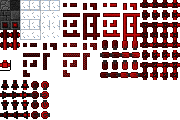
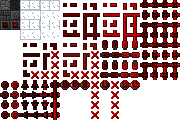
Add files via upload

Changed region(s): [[0.0, 0.425, 0.7778, 1.0], [0.0, 0.25, 0.1111, 0.425], [0.0, 0.5, 0.0833, 0.6]]

diff --git a/world.py b/world.py
@@ -66,8 +66,8 @@ class World:
         self.block_indexes = {"wire" : 0, "activator" : 1, "block" : 2, "NOT" : 3, "wire box" : 4, "AND" : 5, "XOR" : 6, "diode" : 7, "output" : 8, "glass" : 9, "armored wire" : 10}
         self.block_indexes2 = ["wire", "activator", "block", "NOT", "wire box", "AND", "XOR", "diode", "output", "glass", "armored wire"]
         self.inventory_index = 0
-        self.inventory = {"wire" : 9999, "activator" : 9999, "block" : 9999, "NOT" : 9999, "wire box" : 9999, "AND" : 9999, "XOR" : 9999, "diode" : 9999, "armored wire" : 9999, "output" : 9999, "glass" : 9999, "air" : 0}
-        self.inventory_names = ["wire", "activator", "block", "NOT", "wire box", "AND", "XOR", "diode", "armored wire", "output", "glass", "air"]
+        self.inventory = {"wire" : 9999, "activator" : 9999, "block" : 9999, "NOT" : 9999, "wire box" : 9999, "AND" : 9999, "XOR" : 9999, "diode" : 9999, "armored wire" : 9999, "memory" : 9999, "output" : 9999, "glass" : 9999, "air" : 0}
+        self.inventory_names = ["wire", "activator", "block", "NOT", "wire box", "AND", "XOR", "diode", "armored wire", "memory", "output", "glass", "air"]
         #self.load_level("level")
 
     def update(self, events):
@@ -187,12 +187,12 @@ class World:
                         self.field[x][y].data["activated2"] = 0
             for x in range(self.w):#распространение электричества
                 for y in range(self.h):
-                    if self.field[x][y].type == "activator" or self.field[x][y].type == "NOT" or self.field[x][y].type == "AND" or self.field[x][y].type == "XOR":
+                    if self.field[x][y].type == "activator" or self.field[x][y].type == "NOT" or self.field[x][y].type == "AND" or self.field[x][y].type == "XOR" or self.field[x][y].type == "memory":
                         if self.field[x][y].data["activated"] == 1:
                             self.field[x][y].update()
             for x in range(self.w):#активация логических вентилей
                 for y in range(self.h):
-                    if self.field[x][y].type == "NOT" or self.field[x][y].type == "AND" or self.field[x][y].type == "XOR":
+                    if self.field[x][y].type == "NOT" or self.field[x][y].type == "AND" or self.field[x][y].type == "XOR" or self.field[x][y].type == "memory":
                         self.field[x][y].update(self.field[x][y].data, enr=0)
             self.change_image()
         self.timer = 0
@@ -264,13 +264,14 @@ class World:
                         txt += str(int(self.field[x][y].data["activated"])) + ","
                     if self.field[x][y].type == "NOT" or self.field[x][y].type == "AND" or self.field[x][y].type == "XOR" or self.field[x][y].type == "diode" or self.field[x][y].type == "output":
                         txt += str(self.field[x][y].data["rotate"]) + ","
-                    if self.field[x][y].type == "wire box" or self.field[x][y].type == "AND" or self.field[x][y].type == "XOR" or self.field[x][y].type == "diode":
+                    if self.field[x][y].type == "wire box" or self.field[x][y].type == "AND" or self.field[x][y].type == "XOR" or self.field[x][y].type == "diode" or self.field[x][y].type == "memory":
                         txt += str(int(self.field[x][y].data["activated1"])) + ","
                         txt += str(int(self.field[x][y].data["activated2"])) + ","
                     if self.field[x][y].type == "armored wire":
                         for i in range(4):
                             txt += str(int(self.field[x][y].data["connections"][i]))
                         txt += ","
+                    if 
                     txt += ":"
         txt += ";"
         file.write(txt)

diff --git a/memory.py b/memory.py
@@ -1,0 +1,53 @@
+from block import Block
+
+class Memory(Block):
+    def __init__(self, world, pos, glassed=0, data=None):
+        preset_data = {"activated1" : 0, "activated2" : 0, "activated" : 0, "rotate" : 0, "inverted" : 0}
+        Block.__init__(self, world, pos, "memory", glassed, data, preset_data)
+
+    def update(self, data={}, enr=1):
+        if not enr:
+            left_pos = self.get_rotate_position((self.data["rotate"] - 1) % 4)
+            right_pos = self.get_rotate_position((self.data["rotate"] + 1) % 4)
+            in1 = 0
+            in2 = 0
+            #левый вход
+            if self.border(left_pos):
+                r = (self.data["rotate"] - 1) % 4
+                left_block = self.world.field[left_pos[0]][left_pos[1]]
+                if left_block.is_block_connect_output(r):
+                    in1 = left_block.data[left_block.get_activated_key(r)]
+            #правый вход
+            if self.border(right_pos):
+                r = (self.data["rotate"] + 1) % 4
+                right_block = self.world.field[right_pos[0]][right_pos[1]]
+                if right_block.is_block_connect_output(r):
+                    in2 = right_block.data[right_block.get_activated_key(r)]
+            #активация
+            if (in1):
+                self.data["activated"] = in2
+            self.data["activated1"] = in1
+            self.data["activated2"] = in2
+        #распространение сигнала
+        if enr:
+            front_pos = self.get_rotate_position(self.data["rotate"])
+            if self.border(front_pos):
+                front_block = self.world.field[front_pos[0]][front_pos[1]]
+                if front_block.active == 0 and self.data["activated"] and front_block.is_block_connect_input(self.data["rotate"]):#если можно передать сигнал вперед
+                    front_block.update({"rotate": self.data["rotate"]})
+
+    def is_block_connect_with_wire(self, rotate):
+        return(self.data["rotate"] != rotate)
+
+    def is_block_connect_output(self, rotate):
+        return((self.data["rotate"] + 2) % 4 == rotate)
+
+    def is_block_connect_input(self, rotate):
+        return((self.data["rotate"] + 1) % 4 == (rotate + 2) % 4 or (self.data["rotate"] - 1) % 4 == (rotate + 2) % 4)
+
+    def connect_with_armored_wire(self):
+        for i in range(4):
+            pos = self.get_rotate_position(i)
+            if self.border(pos):
+                if self.world.field[pos[0]][pos[1]].type == "armored wire" and self.world.field[pos[0]][pos[1]].is_block_connect_with_wire(i) and self.is_block_connect_with_wire((i + 2) % 4):
+                    self.world.field[pos[0]][pos[1]].data["connections"][(i + 2) % 4] = 1

diff --git a/image_factory.py b/image_factory.py
@@ -26,7 +26,7 @@ def get_glass_image(neighbours):
     return(get_image(2 + neighbours[0] * 2 + neighbours[3], neighbours[2] * 2 + neighbours[1]))
 
 def get_wire_box_image(data):
-    return(get_image(data["activated1"], 3 + data["activated2"]))
+    return(get_image(5, data["activated1"] + data["activated2"] * 2 + 8))
 
 def get_AND_image(data):
     return(get_image(14 + data["activated1"] + data["activated2"] * 2, data["rotate"]))
@@ -35,13 +35,16 @@ def get_XOR_image(data):
     return(get_image(14 + data["activated1"] + data["activated2"] * 2, 4 + data["rotate"]))
 
 def get_diode_image(data):
-    return(get_image(data["activated1"] + data["activated2"], 8 + data["rotate"]))
+    return(get_image(data["activated1"] + data["activated2"] + 2, 8 + data["rotate"]))
 
 def get_output_image(data):
-    return(get_image(3 + data["activated"], 8 + data["rotate"]))
+    return(get_image(data["activated"], 8 + data["rotate"]))
 
 def get_armored_wire_image(data, neighbours):
     return(get_image(2 + neighbours[2] * 2 + neighbours[3] + 4 * data["activated"], 4 + neighbours[0] * 2 + neighbours[1]))
+
+def get_memory_image(data):
+    return(get_image(data["activated1"] + data["activated2"] * 2 + data["activated"] * 4 + 6, data["rotate"] + 8))
 
 def get_block_image(sftype, neighbours, data):
     if sftype == "wire":
@@ -66,6 +69,8 @@ def get_block_image(sftype, neighbours, data):
         return(get_output_image(data))
     elif sftype == "armored wire":
         return(get_armored_wire_image(data, neighbours))
+    elif sftype == "memory":
+        return(get_memory_image(data))
     elif sftype == "air":
         img = pygame.Surface((40, 40))
         img.set_colorkey((0, 0, 0))

diff --git a/block.py b/block.py
@@ -55,6 +55,8 @@ class Block():
             self.image = get_output_image(self.data)
         elif self.type == "armored wire":#защищенный провод
             self.image = get_armored_wire_image(self.data, self.data["connections"])
+        elif self.type == "memory":#ячейка памяти
+            self.image = get_memory_image(self.data)
         if self.glassed:
             see = [0, 0, 0, 0]
             for i in range(4):
@@ -103,6 +105,8 @@ from armored_wire import ArmoredWire
 from diode import Diode
 from output import Output
 from wire_box import WireBox
+from memory import Memory
+
 def get_block(world, pos, type, glassed=0, data=None):
     if type == "wire":
         return(Wire(world, pos, glassed, data))
@@ -120,4 +124,6 @@ def get_block(world, pos, type, glassed=0, data=None):
         return(Output(world, pos, glassed, data))
     elif type == "wire box":
         return(WireBox(world, pos, glassed, data))
+    elif type == "memory":
+        return(Memory(world, pos, glassed, data))
     return(Block(world, pos, type, glassed, data))
